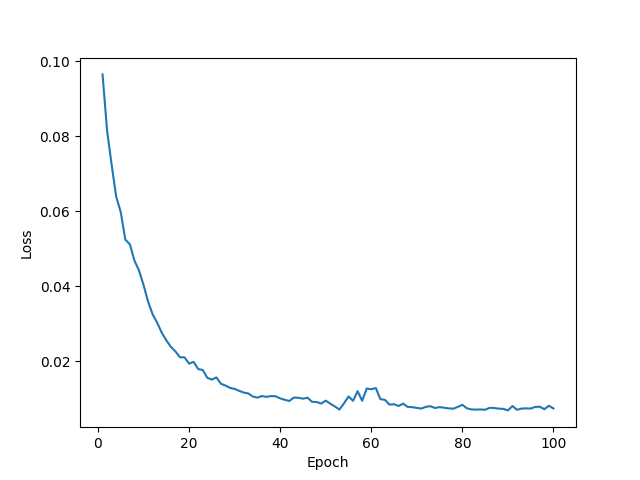
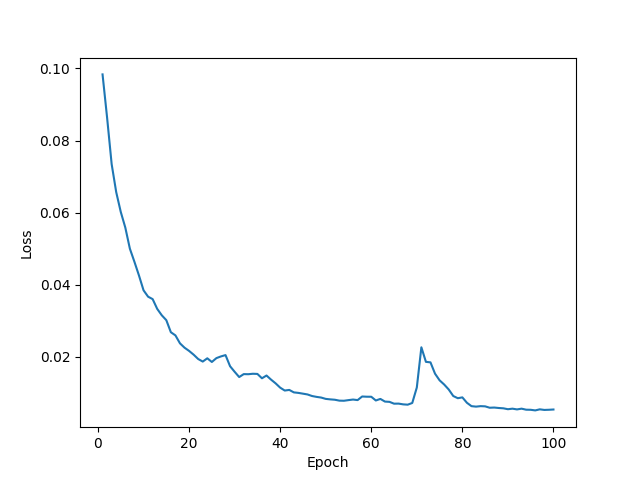
Added test for a set with just two labels

diff --git a/cnnmodel_periodic_stochastic.py b/cnnmodel_periodic_stochastic.py
@@ -10,12 +10,11 @@ from keras.layers.convolutional import MaxPooling1D
 
 def main():
 
-  labels = [0,1,2,3,4,5,6,7,8]
+  labels = [5,7]
 
-
-# Read in data, but skip the last one, which is for unclassifiable light curves
-  for i in labels:
-      labellist = np.zeros(9,dtype=int)
+# Read in data just for periodic and stochastic stars
+  for i in np.arange(len(labels)):
+      labellist = np.zeros(2,dtype=int)
       labellist[i] = 1
 
       dir = 'LCs'+str(labels[i])
@@ -63,7 +62,7 @@ def main():
   model.add(MaxPooling1D(pool_size=2))
   model.add(Flatten())
   model.add(Dense(50, activation='relu'))
-  model.add(Dense(9, activation='softmax'))
+  model.add(Dense(2, activation='softmax'))
   model.compile(optimizer='adam', loss='mse')
 
 # Fit model
@@ -76,7 +75,7 @@ def main():
   plt.plot(epochs,loss)
   plt.xlabel('Epoch') 
   plt.ylabel('Loss')
-  plt.savefig('Losstrend.png')
+  plt.savefig('Losstrend_periodic_stochastic.png')
 
 # Demonstrate prediction
   x_input = data_test[7]
@@ -85,7 +84,7 @@ def main():
   print(yhat)
 
 # Assess performance for whole test set 
-  print("Real label         |        Predictions", file=open("cnntest_interpolateddata.txt", "a"))
+  print("Real label         |        Predictions", file=open("cnntest_interpolateddata_periodic_stochastic.txt", "a"))
   for i in np.arange(len(data_test)):
     x_input = data_test[i]
     x_input = x_input.reshape((1, n_steps, n_features))
@@ -94,7 +93,7 @@ def main():
       output = '  Correct!'
     else:
       output = '  Wrong.'
-    print(label_train[i], yhat[0], output, file=open("cnntest_interpolateddata.txt", "a"))
+    print(label_train[i], yhat[0], output, file=open("cnntest_interpolateddata_periodic_stochastic.txt", "a"))
 
 # Standard boilerplate to call the main() function.
 if __name__ == '__main__':
